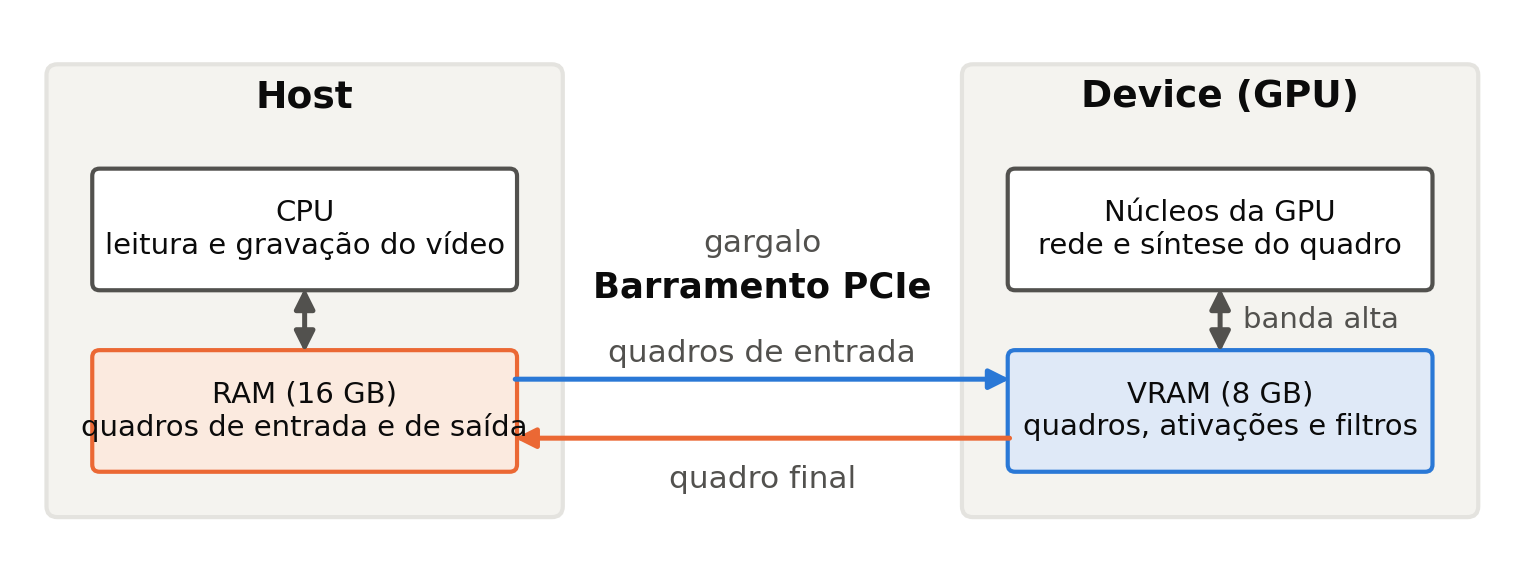
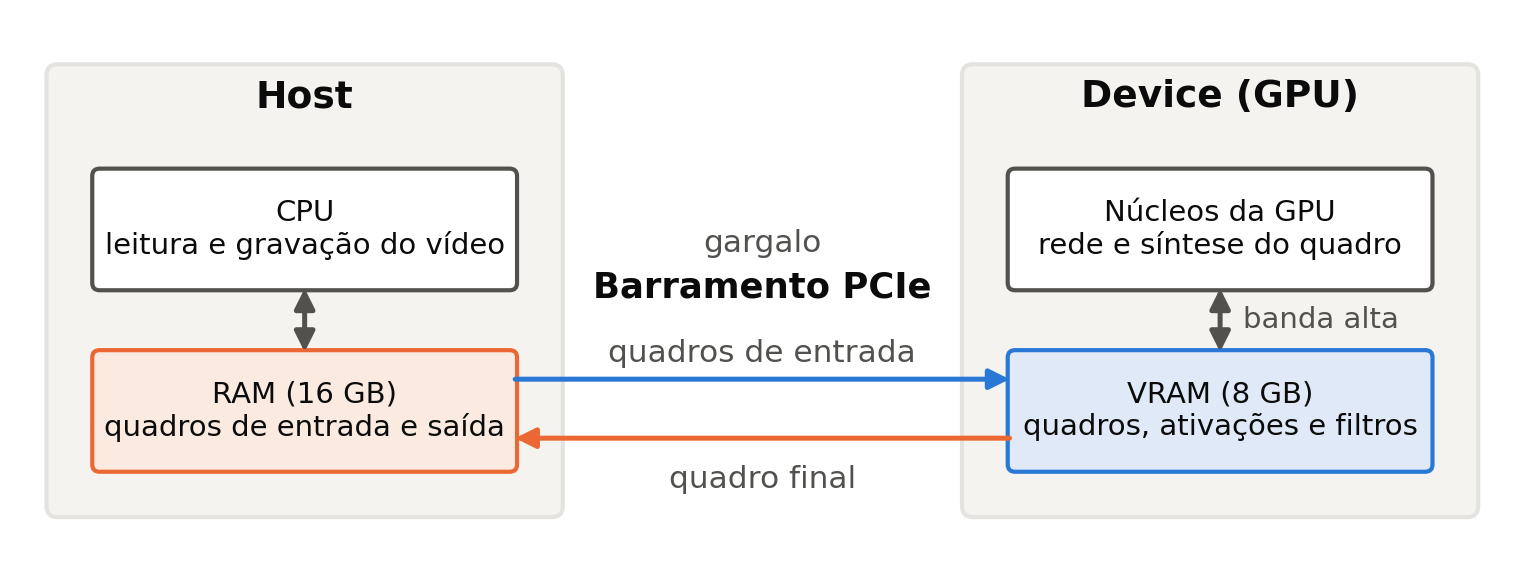
Ajusta textos das figuras de linearizacao e de host e device

Changed region(s): [[0.0617, 0.7183, 0.3392, 0.7782]]

diff --git a/implementacao/figuras/gerar_figuras_fundamentos.py b/implementacao/figuras/gerar_figuras_fundamentos.py
@@ -192,7 +192,7 @@ def linearizacao():
 
     eixo.text(1.75, 1.8, "linha, coluna", ha="center", fontsize=7, color=TEXTO_SECUNDARIO)
     seta(eixo, (3.55, 3.75), (4.8, 3.75))
-    eixo.text(4.17, 3.28, "$i = y \\cdot W + x$", ha="center", va="top", fontsize=7, color=TEXTO_SECUNDARIO)
+    eixo.text(4.17, 4.0, "$i = y \\cdot W$\n$+\\ x$", ha="center", va="bottom", fontsize=7, color=TEXTO_SECUNDARIO)
 
     eixo.text(10.4, 5.95, "(b) Vetor contíguo na memória", ha="center", fontsize=8.5, color=TEXTO)
 
@@ -480,7 +480,7 @@ def host_device():
     eixo.add_patch(FancyBboxPatch((0.2, 0.25), 5.6, 4.95, boxstyle="round,pad=0.02,rounding_size=0.12", facecolor="#f4f3ef", edgecolor=GRADE))
     eixo.text(3.0, 4.75, "Host", ha="center", fontsize=9, fontweight="semibold", color=TEXTO)
     caixa(eixo, 0.7, 2.75, 4.6, 1.3, "CPU\nleitura e gravação do vídeo", tamanho=7)
-    caixa(eixo, 0.7, 0.75, 4.6, 1.3, "RAM (16 GB)\nquadros de entrada e de saída", cor="#fbeadf", borda=COR_PYTHON, tamanho=7)
+    caixa(eixo, 0.7, 0.75, 4.6, 1.3, "RAM (16 GB)\nquadros de entrada e saída", cor="#fbeadf", borda=COR_PYTHON, tamanho=7)
     seta(eixo, (3.0, 2.05), (3.0, 2.75), duas=True)
 
     eixo.add_patch(FancyBboxPatch((10.2, 0.25), 5.6, 4.95, boxstyle="round,pad=0.02,rounding_size=0.12", facecolor="#f4f3ef", edgecolor=GRADE))
